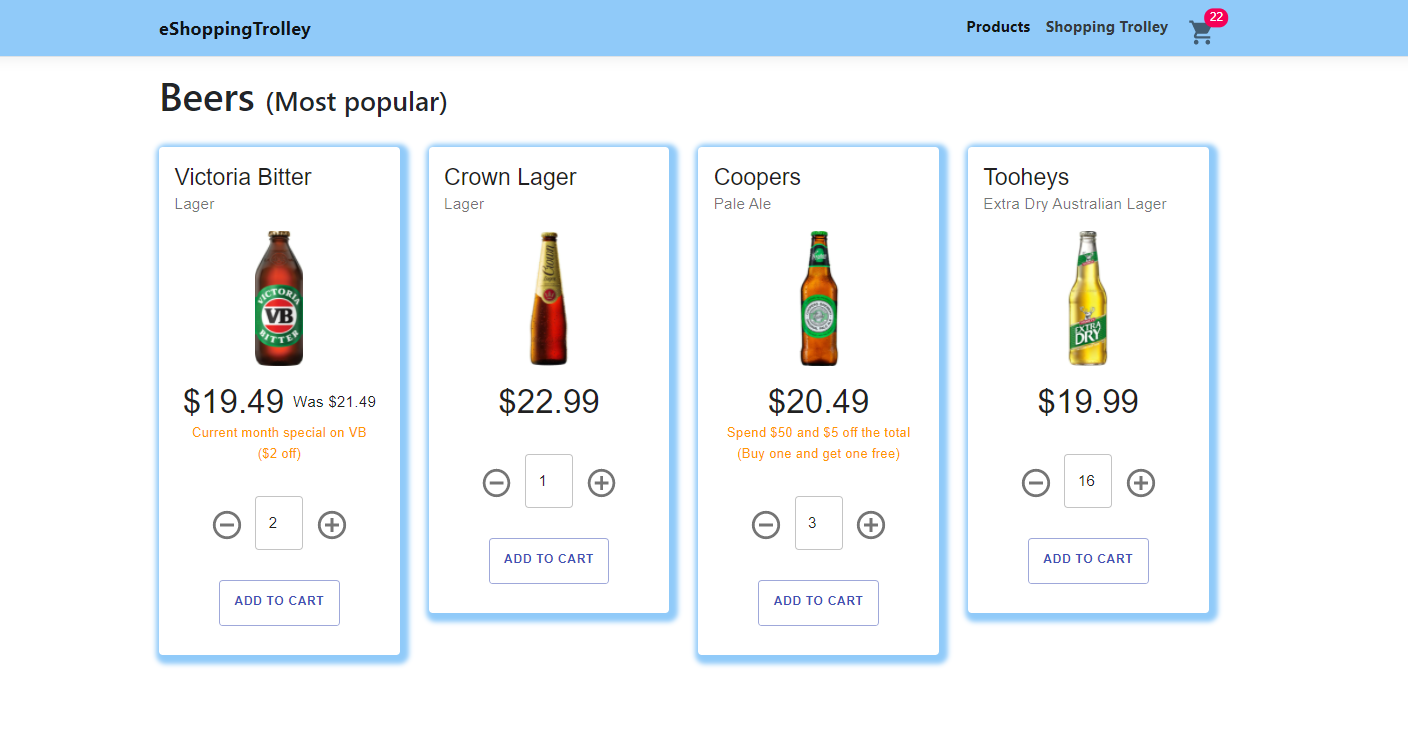
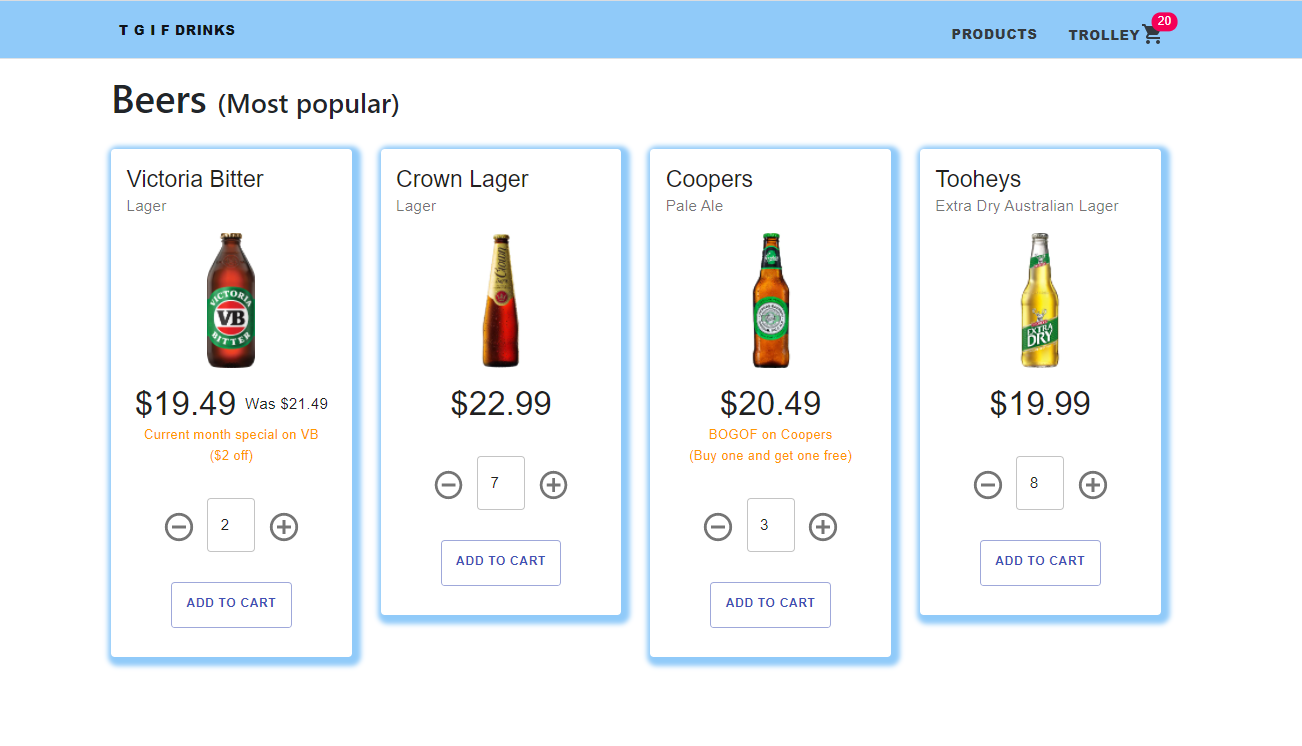
updated Readme File with Application Screenshots

diff --git a/eShoppingTrolley/ClientApp/src/components/NavMenu.js b/eShoppingTrolley/ClientApp/src/components/NavMenu.js
@@ -2,7 +2,8 @@ import React, { useState } from 'react';
 import { Collapse, Container, Navbar, NavbarBrand, NavbarToggler, NavItem, NavLink } from 'reactstrap';
 import { Link } from 'react-router-dom';
 import { Typography, Button } from '@material-ui/core';
-import CartWithBadge from './controls/CartWithBadge';
+import Badge from '@material-ui/core/Badge';
+import ShoppingCartIcon from '@material-ui/icons/ShoppingCart';
 import './NavMenu.css';
 
 
@@ -32,7 +33,7 @@ const NavMenu = ({ count }) => {
               </NavItem>
               <NavItem>
                 <NavLink tag={Link} className="text-dark" to="/products">
-                  <Typography color="inherit" variant="h6" style={{ fontWeight: 750 }} >
+                  <Typography color="inherit" variant="h6" >
                     <Button color="inherit" style={{ fontWeight: 850 }}>Products</Button>
                   </Typography>
                 </NavLink>
@@ -40,12 +41,14 @@ const NavMenu = ({ count }) => {
               <NavItem>
                 <NavLink tag={Link} className="text-dark" to="/shopping-trolley">
                   <Typography color="inherit" variant="h6">
-                    <Button color="inherit" style={{ fontWeight: 850 }}>Trolley</Button>
+                    <Button color="inherit" style={{ fontWeight: 850 }}>
+                      Trolley
+                      <Badge badgeContent={count} color="secondary">
+                        <ShoppingCartIcon style={{ fontSize: 25 }} />
+                      </Badge >
+                    </Button>
                   </Typography>
                 </NavLink>
-              </NavItem>
-              <NavItem>
-                <CartWithBadge count={count} />
               </NavItem>
             </ul>
           </Collapse>

diff --git a/eShoppingTrolley/ClientApp/src/components/ShoppingTrolley.js b/eShoppingTrolley/ClientApp/src/components/ShoppingTrolley.js
@@ -212,7 +212,7 @@ const ShoppingTrolley = ({ onUpdateCount, trolleys, promotion }) => {
                   <IconButton onClick={() => removeItem(trolley.product.id, trolley.quantity)} className="align-self-center" disabled={trolley.quantity === 0 ? true : false}>
                     <RemoveCircleOutlineIcon style={{ fontSize: 25 }} color="action" aria-label="remove" className={classes.icons} />
                   </IconButton>
-                  <TextField value={trolley.quantity} variant="outlined" style={{ width: "50px", height: "50px" }} />
+                  <TextField value={trolley.quantity} variant="outlined" style={{ width: "60px", height: "50px", cursor: "none" }} />
                   <IconButton onClick={() => addItem(trolley.product.id, trolley.quantity)} className="align-self-center">
                     <AddCircleOutlineIcon style={{ fontSize: 25 }} color="action" aria-label="add" className={classes.icons} />
                   </IconButton>

diff --git a/eShoppingTrolley/ClientApp/src/components/controls/ProductCard.js b/eShoppingTrolley/ClientApp/src/components/controls/ProductCard.js
@@ -163,7 +163,7 @@ const ProductCard = (props) => {
         <IconButton onClick={() => removeItem(props.shoppingItem.product.id, props.shoppingItem.quantity)} className="align-self-center" disabled={props.shoppingItem.quantity === 0 ? true : false}>
           <RemoveCircleOutlineIcon style={{ fontSize: 35 }} color="action" aria-label="remove" className={classes.icons} />
         </IconButton>
-        <TextField value={itemCount === null ? 0 : itemCount} variant="outlined" style={{ width: "50px", height: "50px" }} />
+        <TextField value={itemCount === null ? 0 : itemCount} variant="outlined" style={{ width: "60px", height: "50px", cursor: "none" }} />
         <IconButton onClick={() => addItem(props.shoppingItem.product.id, props.shoppingItem.quantity)} className="align-self-center">
           <AddCircleOutlineIcon style={{ fontSize: 35 }} color="action" aria-label="add" className={classes.icons} />
         </IconButton>

diff --git a/eShoppingTrolley.Repository/Context/ProductDBContextSeeder.cs b/eShoppingTrolley.Repository/Context/ProductDBContextSeeder.cs
@@ -43,7 +43,7 @@ namespace eShoppingTrolley.Repository.Context
         Name = CommonConstants.COOPERS_NAME,
         Type = "Pale Ale",
         Description = "One of Australia's finest family-brewed beers, Coopers Pale Ale is a crisp, cloudy and refreshing bottle-fermented Australian pale.",
-        Promotion = CommonConstants.TROLLEY_PROMOTIONAL_OFFER,
+        Promotion = CommonConstants.COOPERS_PROMOTIONAL_OFFER,
         PromotionDescription = "(Buy one and get one free)",
         ImageURL = CommonConstants.COOPERS_IMAGE_URL,
         Price = 20.49

diff --git a/README.md b/README.md
@@ -22,13 +22,12 @@ Application is hosted in Azure - https://tgifdrinks.azurewebsites.net/
 ## Status and Usage
 eShoppingTrolley is a Single Page Application to demostrate the use case scenario mentioned below. 
 - The user journey starts with Landing Page with an image which can be enhanced in many ways (like using carousels).
-- The user can then move onto the Products screen by clicking on the Products menu button on the right hand side of the site. 
+- The user can then move onto the Products screen by clicking on the Products menu button on the top right hand side of the menubar. 
 - The Products screen at the moment has 4 sample products displayed. Each displayed product section has basic product details, product image, special offers if any, add/remove icon buttons and 'Add to cart' button (pending implementation).
-- For the current shopping experience the user can add or remove any number of product with no upper limit, and this numbers added eventually is updated on the Trolley menu button on the menuabar top right hand side. This Trolley menu button is pending implmentation.
-- By default the ShoppingTrolley screen will be empty untill unless some items have been added from Products screen.
-- Once the user has finalised the shopping they can move onto checkout screen by clicking on the Trolley button on the menuabar top right hand side and reviewing the cart. 
+- For the current shopping experience the user can add or remove any number of product with no upper limit, and this numbers added eventually is updated on the Trolley menu button on the menuabar top right hand side.
+- By default the Trolley screen will be empty untill unless some items have been added from Products screen.
+- Once the user has finalised the shopping they can move onto Trolley screen by clicking on the Trolley button on the menuabar top right hand side and reviewing the cart. 
 - The Trolley page shows the summary of the products added, their quantities, the offers applied and the final amount to be paid. This is implemented as per the 5 User Stories defined below.
-- The user can navigate between the Home, Products and the Trolley alternatively.
 
 
 ## Application Screenshots
@@ -36,7 +35,7 @@ eShoppingTrolley is a Single Page Application to demostrate the use case scenari
 ![Products Screen](https://github.com/jiteshkaranjkar/eShoppingTrolley/blob/master/ProductsScreen.png)
 
 - Trolley Screen - showcasing all the products added with offers, price, discounted and total sale price
-![Trolley Screen](https://github.com/jiteshkaranjkar/eShoppingTrolley/blob/master/ShoppingTolleyScreen.png)
+![Trolley Screen](https://github.com/jiteshkaranjkar/eShoppingTrolley/blob/master/TrolleyScreen.png)
 
 ## Installation
 **Steps of installation**
@@ -115,4 +114,4 @@ Application structure results in following:
 
 ## Test Data
 	All User stories are based on this test data and application is built using this test data
-	![Test Data](https://github.com/jiteshkaranjkar/eShoppingTrolley/blob/master/Test%20Data.png)
+	![Test Data](https://github.com/jiteshkaranjkar/eShoppingTrolley/blob/master/TestData.png)
